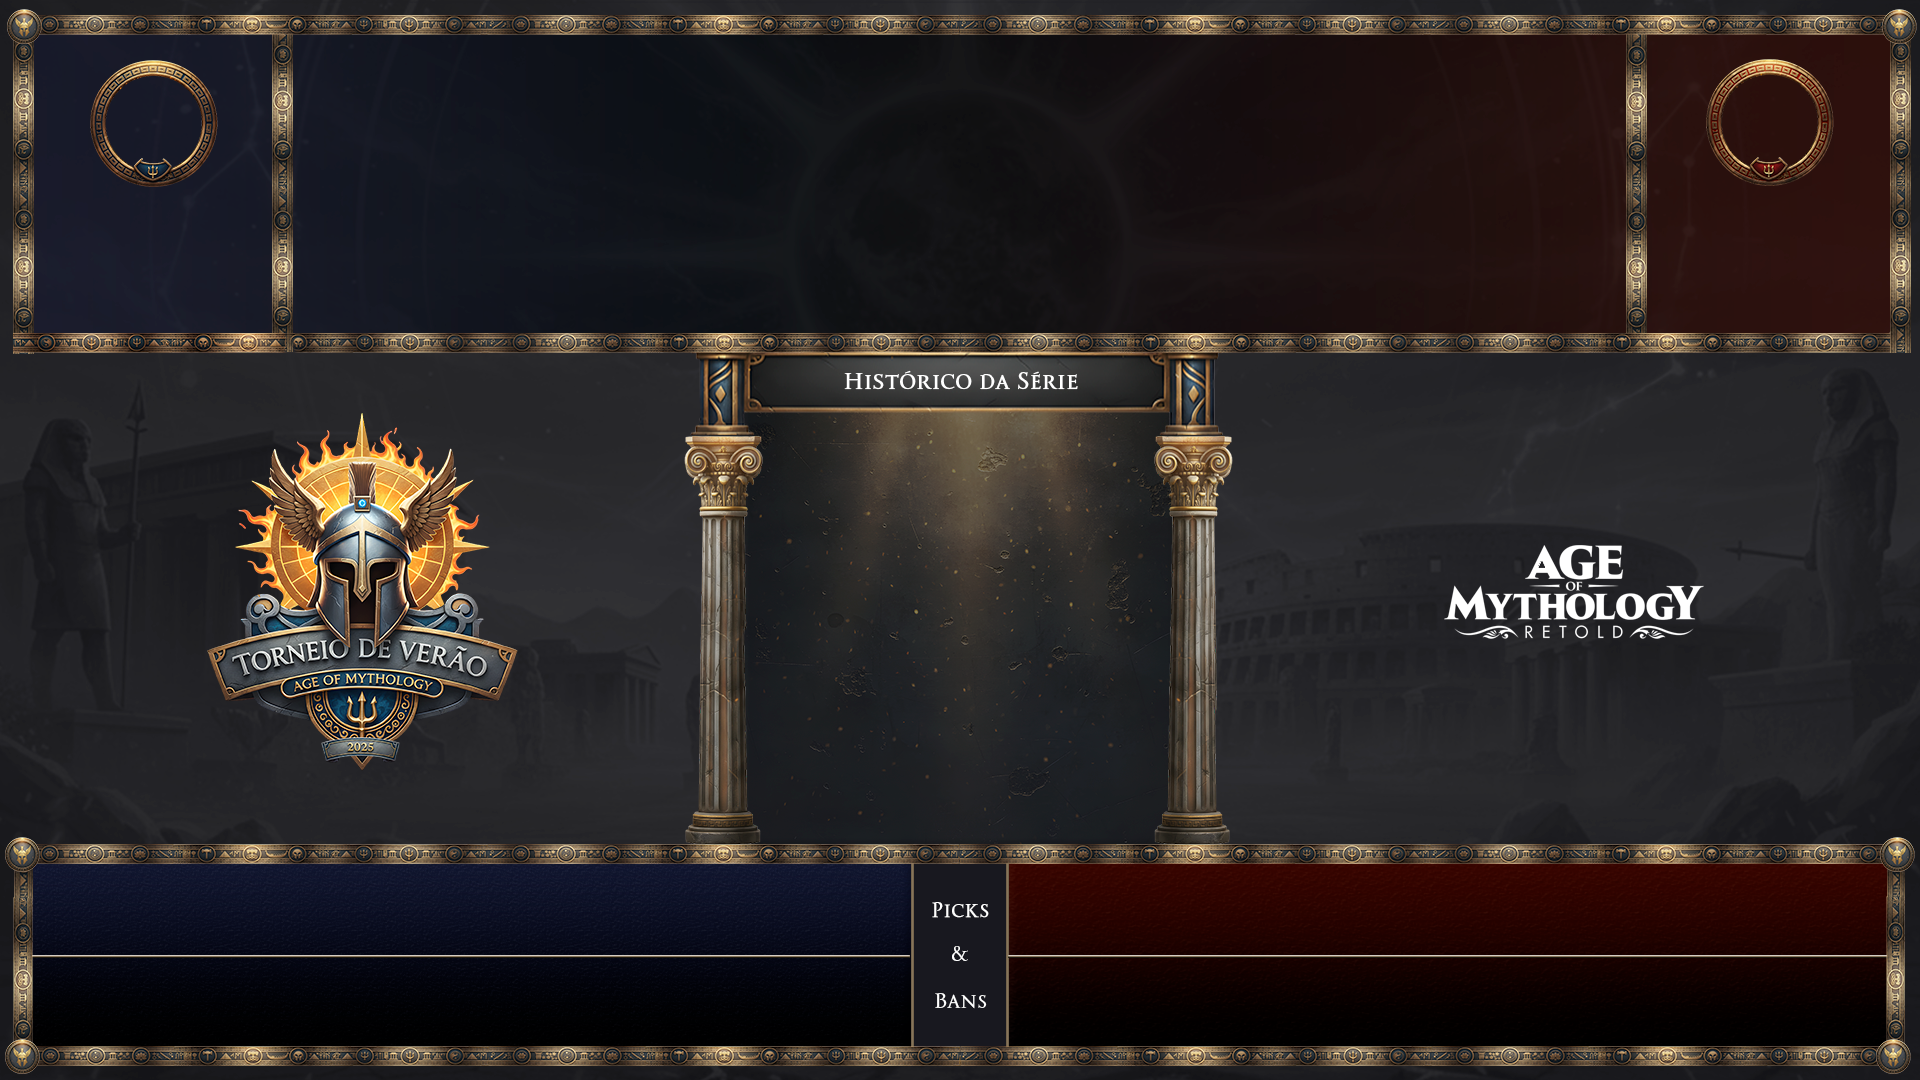
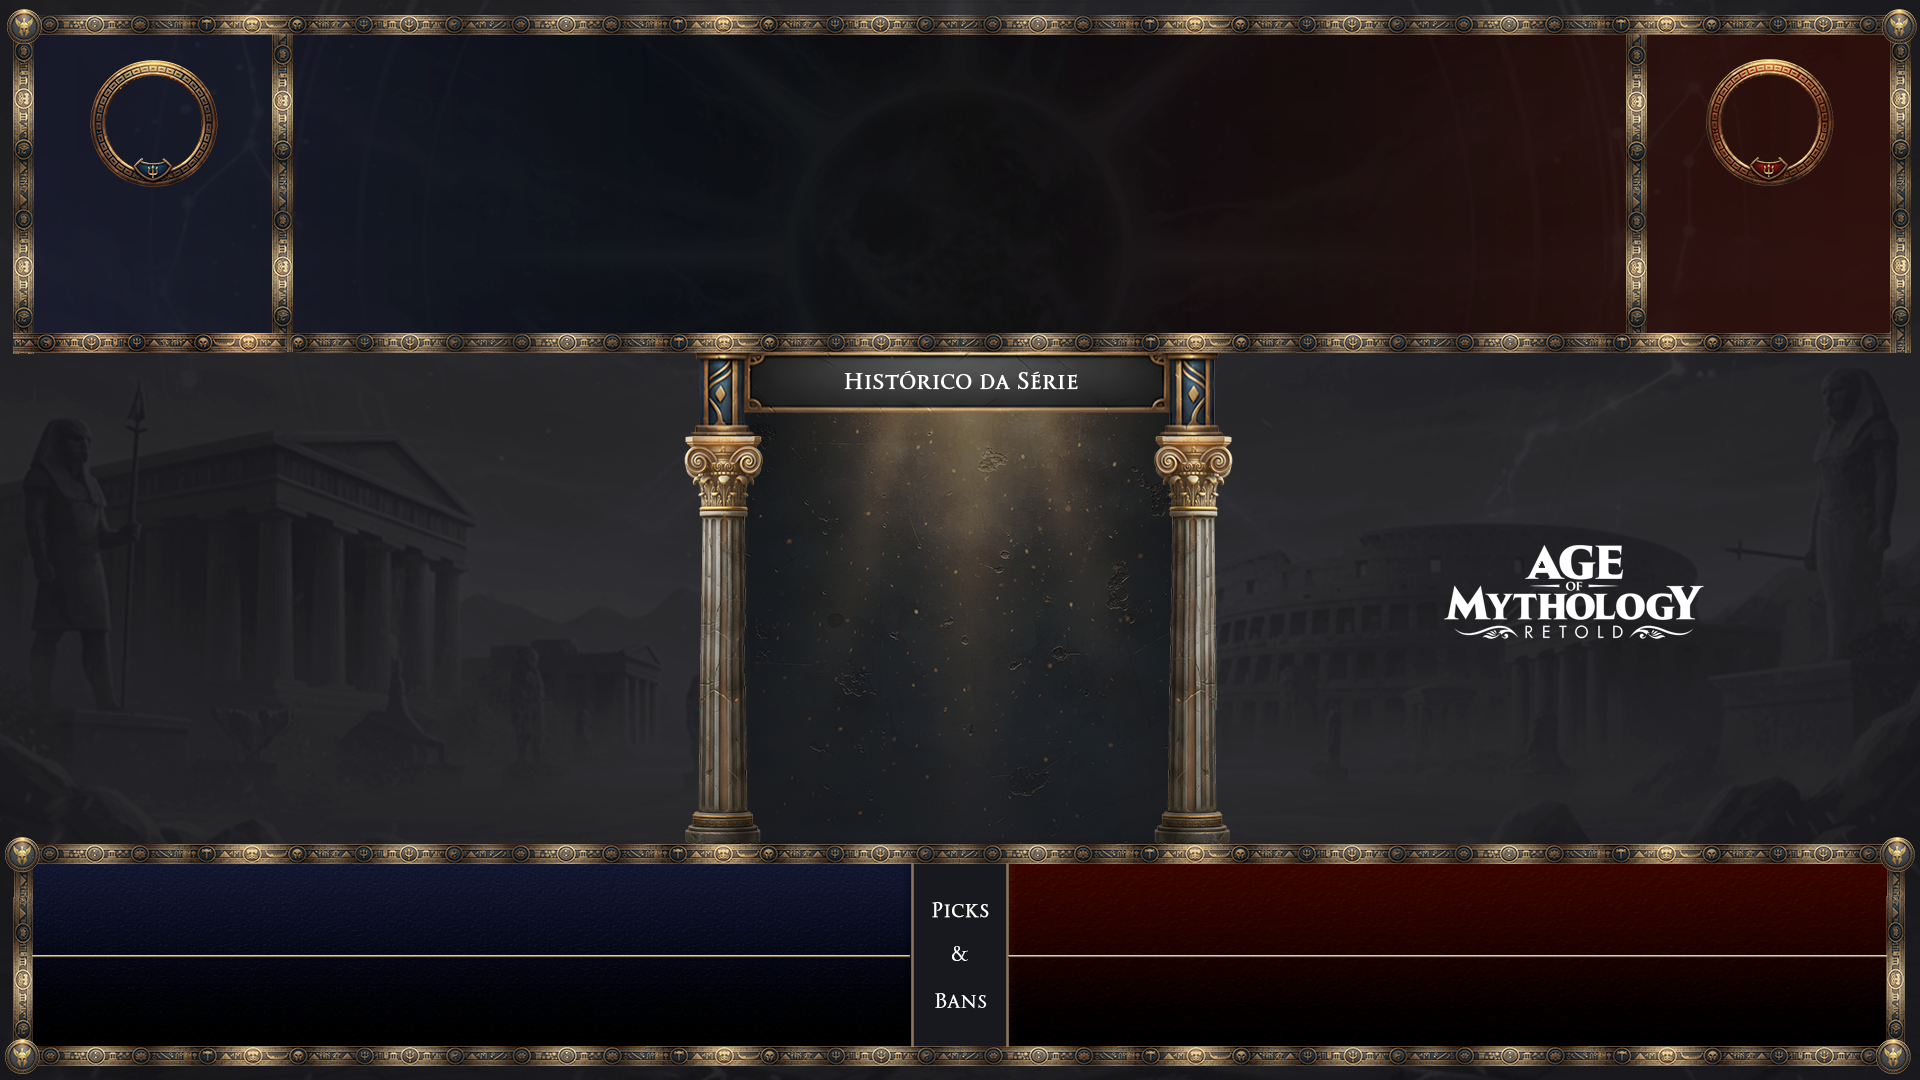
feat: :sparkles: get camp image

Changed region(s): [[0.0938, 0.3972, 0.2812, 0.7028]]

diff --git a/AoM/draft.html b/AoM/draft.html
@@ -90,7 +90,6 @@
     }
 
     .avatar-border {
-      /* width: 95px; */
       height: auto;
       position: absolute;
       top: 240px;
@@ -123,7 +122,7 @@
       bottom: 290px;
       left: 18%;
       transform: translate(-50%, 0%);
-      width: 450px;
+      width: 650px;
       height: auto;
       z-index: 10;
     }
@@ -273,7 +272,7 @@
     <img id="avatar-2" class="avatar" src="" alt="Avatar Vermelha">
     <img id="avatar-border-1" class="avatar-border" src="assets/avatar-border-1.png" alt="Borda Azul">
     <img id="avatar-border-2" class="avatar-border" src="assets/avatar-border-2.png" alt="Borda Vermelha">
-    <!-- <img id="logo-campeonato" src="" alt="Logo Campeonato"> -->
+    <img id="logo-campeonato" src="" alt="Logo Campeonato">
     <div id="proxima-partida">Próxima partida:</div>
     <img id="imagem-mapa" src="" alt="Imagem do Mapa">
     <img id="god-1" class="deus" src="" alt="Deus 1">
@@ -327,7 +326,7 @@
         // document.getElementById('bandeira-1').src = 'https://avatars.steamstatic.com/7100b6df9bb4b04fde61a1381041cf30b36b3c66_medium.jpg';
         // document.getElementById('bandeira-2').src = 'https://avatars.steamstatic.com/097e9348a2cb2b97527eb8f1cf8582e4b7c3fdca_medium.jpg';
         // document.getElementById('fase').textContent = dados.fase || '';
-        // document.getElementById('logo-campeonato').src = dados.logo_camp ? `campeonatos/${dados.logo_camp}.png` : '';
+        document.getElementById('logo-campeonato').src = dados.logo_camp ? `campeonatos/${dados.logo_camp}.png` : '';
 
         const nomeMapa = dados.mapa || '';
         document.getElementById('nome-mapa').textContent = nomeMapa;
